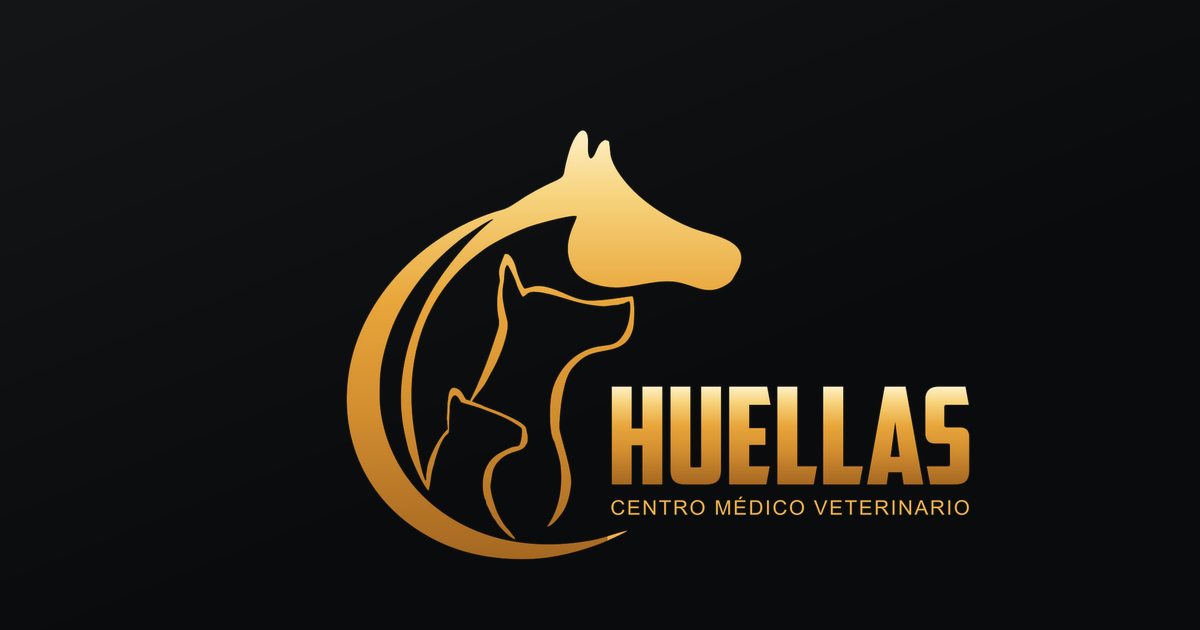
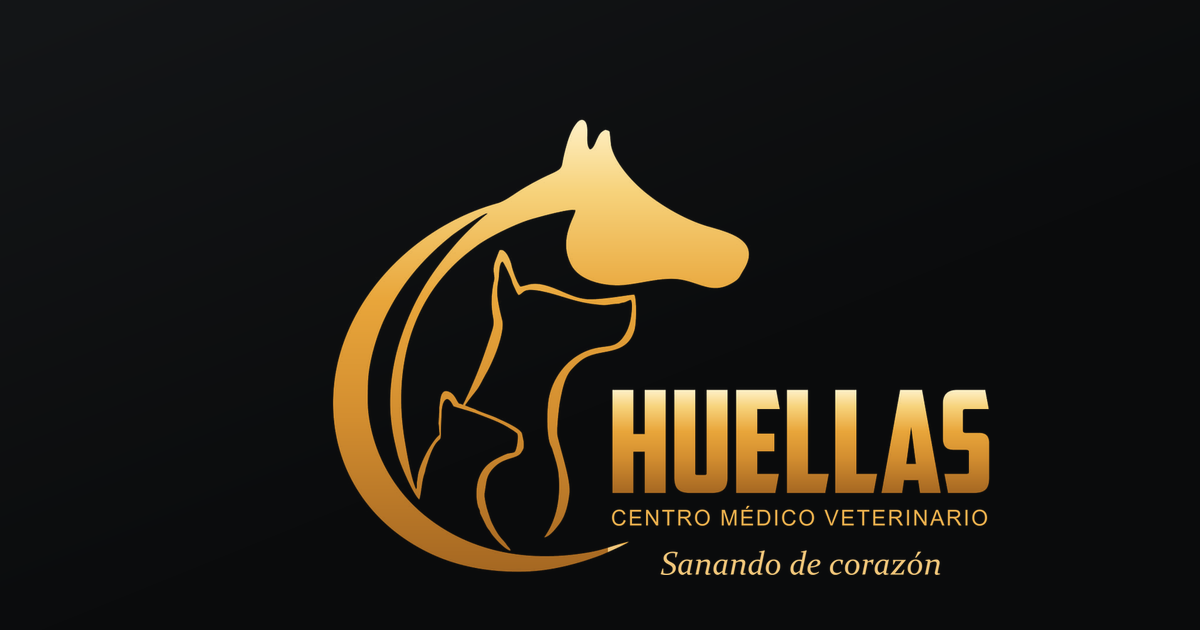
Add files via upload

diff --git a/sitio/huellas.html b/sitio/huellas.html
@@ -4,11 +4,11 @@
 <meta charset="utf-8">
 <meta name="viewport" content="width=device-width, initial-scale=1.0, viewport-fit=cover">
 <title>Mario Andrés Meza Chaves · Huellas — Centro Médico Veterinario</title>
-<meta name="description" content="Médico veterinario COMVEZCOL en San Juan de Pasto. Caninos, felinos y equinos. Cirugía de tejidos blandos, ortopedia, medicina interna, reproducción y odontología. Emergencias 24 horas.">
+<meta name="description" content="Médico veterinario en San Juan de Pasto. Caninos, felinos y equinos. Cirugía de tejidos blandos, ortopedia, medicina interna y medicinas integrativas. Emergencias 24 horas.">
 <link rel="canonical" href="https://insignes.co/huellas">
 <meta property="og:type" content="profile">
 <meta property="og:title" content="Mario Andrés Meza Chaves · Huellas — Centro Médico Veterinario">
-<meta property="og:description" content="Médico veterinario COMVEZCOL en San Juan de Pasto. Caninos, felinos y equinos. Cirugía, ortopedia, medicina interna y medicinas complementarias. Emergencias 24 horas.">
+<meta property="og:description" content="Médico veterinario en San Juan de Pasto. Caninos, felinos y equinos. Cirugía, ortopedia, medicina interna y medicinas integrativas. Emergencias 24 horas.">
 <meta property="og:locale" content="es_CO">
 <meta property="og:url" content="https://insignes.co/huellas">
 <meta property="og:image" content="https://insignes.co/social-huellas.png">
@@ -19,7 +19,7 @@
 <link rel="icon" href="favicon.svg" type="image/svg+xml">
 <link rel="preload" href="fonts/sans.woff2" as="font" type="font/woff2" crossorigin>
 <link rel="preload" href="fonts/sans-medium.woff2" as="font" type="font/woff2" crossorigin>
-<script type="application/ld+json">{"@context":"https://schema.org","@type":"LocalBusiness","name":"Huellas — Centro Médico Veterinario","description":"Atención de caninos, felinos y equinos. Cirugía de tejidos blandos, ortopedia y medicina interna. Medicina de emergencia, reproducción y odontología. Medicinas complementarias: zoocinesiatría, terapia neural, homeopatía veterinaria, biopuntura, medicina ortomolecular y ozonoterapia.","telephone":"+573154502046","email":"marioandresmeza@hotmail.com","url":"https://insignes.co/huellas","image":"https://insignes.co/social-huellas.png","sameAs":["https://www.facebook.com/profile.php?id=61593629071987","https://www.instagram.com/huellasvetarinaria/","https://www.tiktok.com/@veterinaria.huellas"],"openingHours":"Mo-Su 00:00-23:59","address":{"@type":"PostalAddress","streetAddress":"Manzana 10 Casa 6, Villaflor 2","addressLocality":"San Juan de Pasto","addressCountry":"CO"},"geo":{"@type":"GeoCoordinates","latitude":"1.2016708","longitude":"-77.2561702"}}</script>
+<script type="application/ld+json">{"@context":"https://schema.org","@type":"LocalBusiness","name":"Huellas — Centro Médico Veterinario","description":"Atención de caninos y felinos: cirugía de tejidos blandos, ortopedia, medicina interna y medicinas integrativas (terapia neural, biopuntura, zoosiniatría, homotoxicología, ozonoterapia, medicina ortomolecular). Atención de equinos: emergencias por abdomen agudo, neonatos, cirugía, reproducción y odontología equina.","telephone":"+573154502046","email":"marioandresmeza@hotmail.com","url":"https://insignes.co/huellas","image":"https://insignes.co/social-huellas.png","sameAs":["https://www.facebook.com/profile.php?id=61593629071987","https://www.instagram.com/huellasvetarinaria/","https://www.tiktok.com/@veterinaria.huellas"],"openingHours":"Mo-Su 00:00-23:59","address":{"@type":"PostalAddress","streetAddress":"Manzana 10 Casa 6, Villaflor 2","addressLocality":"San Juan de Pasto","addressCountry":"CO"},"geo":{"@type":"GeoCoordinates","latitude":"1.2016708","longitude":"-77.2561702"}}</script>
 <style>
 @font-face{font-family:'Propia';src:url('fonts/sans.woff2') format('woff2');font-weight:400;font-display:swap}
 @font-face{font-family:'Propia';src:url('fonts/sans-medium.woff2') format('woff2');font-weight:500;font-display:swap}
@@ -43,10 +43,11 @@ ul{list-style:none}
 /* rótulo de cada sección */
 .rotulo{font-size:9px;font-weight:500;letter-spacing:.24em;text-transform:uppercase;color:#8D939A;margin-bottom:18px}
 
-/* perfil profesional, dentro de la tarjeta */
-.perfil{display:grid;gap:8px}
-.perfil li{position:relative;padding-left:15px;font-size:12px;line-height:1.5;color:#A5ABB2;text-wrap:pretty}
-.perfil li::before{content:"";position:absolute;left:0;top:.52em;width:4px;height:4px;background:#E9A63B;opacity:.8}
+/* ámbitos de atención, dentro de la tarjeta */
+.ambitos{display:grid;gap:20px;border-top:1px solid rgba(242,243,244,.09);padding-top:22px}
+.ambitos h3{font-size:9px;font-weight:500;letter-spacing:.19em;text-transform:uppercase;color:#E9A63B;margin-bottom:9px}
+.ambitos p{font-size:12px;line-height:1.62;color:#A5ABB2;text-wrap:pretty}
+.ambitos em{font-style:normal;color:#C3C9CF}
 
 /* especializaciones */
 .esp li{border-top:1px solid rgba(242,243,244,.1);padding:15px 0 17px}
@@ -57,7 +58,7 @@ ul{list-style:none}
 /* galería */
 #tira{display:grid;grid-auto-flow:column;grid-auto-columns:62%;gap:10px;overflow-x:auto;overscroll-behavior-x:contain;scroll-snap-type:x mandatory;margin:0 -22px;padding:0 22px 2px;scrollbar-width:none;-webkit-overflow-scrolling:touch}
 #tira::-webkit-scrollbar{display:none}
-.pieza{position:relative;display:block;width:100%;aspect-ratio:4/5;scroll-snap-align:start;appearance:none;padding:0;border:1px solid rgba(242,243,244,.16);background:#0E1012;overflow:hidden;cursor:pointer}
+.pieza{position:relative;display:block;width:100%;aspect-ratio:1/1;scroll-snap-align:start;appearance:none;padding:0;border:1px solid rgba(242,243,244,.16);background:#0E1012;overflow:hidden;cursor:pointer}
 .pieza img,.pieza video{width:100%;height:100%;object-fit:cover;display:block;transition:transform .55s cubic-bezier(.16,1,.3,1)}
 .pieza:hover img,.pieza:hover video{transform:scale(1.05)}
 .pieza .rot{position:absolute;left:0;right:0;bottom:0;padding:26px 12px 11px;background:linear-gradient(to top,rgba(8,9,10,.9),rgba(8,9,10,.45) 55%,transparent);font-size:10px;font-weight:500;letter-spacing:.05em;color:#F2F3F4;text-align:left;text-wrap:pretty}
@@ -83,8 +84,8 @@ ul{list-style:none}
 <div data-sobre="1" style="position:relative;border:1px solid rgba(242,243,244,.2);background:linear-gradient(158deg,#141618 0%,#0B0C0D 58%,#0A0B0C 100%);display:flex;flex-direction:column;overflow:hidden;will-change:transform;transition:transform .18s cubic-bezier(.16,1,.3,1);animation:entrarTarjeta .9s cubic-bezier(.16,1,.3,1) both">
 <div data-brillo="1" aria-hidden="true" style="position:absolute;top:-30%;left:-20%;width:150%;height:120%;background:linear-gradient(112deg,transparent 38%,rgba(242,243,244,.09) 50%,transparent 62%);pointer-events:none;will-change:transform;transition:transform .18s cubic-bezier(.16,1,.3,1)"></div>
 <div style="position:relative;display:flex;flex-direction:column;gap:34px;padding:30px 24px 30px">
-<img src="logo-huellas-dorado.png" alt="Huellas — Centro Médico Veterinario" width="1120" height="743" style="width:196px;height:auto;display:block">
-<div><p style="font-size:clamp(25px,7vw,29px);font-weight:500;letter-spacing:-.036em;line-height:1.05;margin-bottom:12px">Mario Andrés<br>Meza Chaves</p><p style="font-size:9px;font-weight:500;letter-spacing:.2em;text-transform:uppercase;color:#E9A63B;margin-bottom:16px">Médico veterinario COMVEZCOL</p><ul class="perfil"><li>Atención de caninos y felinos</li><li>Especialista en cirugía de tejidos blandos, ortopedia y medicina interna</li><li>Atención de equinos</li><li>Medicina de emergencia y cirugía. Especialista en reproducción y odontología</li></ul></div>
+<img src="logo-huellas-dorado.png" alt="Huellas — Centro Médico Veterinario · Sanando de corazón" width="1120" height="746" style="width:210px;height:auto;display:block">
+<div><p style="font-size:clamp(25px,7vw,29px);font-weight:500;letter-spacing:-.036em;line-height:1.05;margin-bottom:12px">Mario Andrés<br>Meza Chaves</p><p style="font-size:9px;font-weight:500;letter-spacing:.2em;text-transform:uppercase;color:#E9A63B;margin-bottom:24px">Médico veterinario</p><div class="ambitos"><div><h3>Atención de caninos y felinos</h3><p>Especialista en cirugía de tejidos blandos y ortopedia. Especialista en medicina interna y <em>medicinas integrativas</em>: terapia neural, biopuntura, zoosiniatría, homotoxicología, ozonoterapia y medicina ortomolecular.</p></div><div><h3>Atención de equinos</h3><p>Emergencias por abdomen agudo (cólico). Atención de neonatos. Especialista en cirugía, reproducción y odontología equina.</p></div></div></div>
 </div>
 <div style="position:relative;display:grid;gap:0"><a href="huellas.vcf" style="border-top:1px solid rgba(242,243,244,.1);display:flex;align-items:center;justify-content:space-between;gap:14px;padding:0 24px;min-height:56px"><span style="font-size:10px;font-weight:500;letter-spacing:.22em;text-transform:uppercase">guardar contacto</span><svg width="17" height="17" viewBox="0 0 24 24" fill="none" stroke="#9198A0" stroke-width="1.7" stroke-linecap="round" stroke-linejoin="round" aria-hidden="true"><path d="M12 4v11"/><path d="M7.5 10.5 12 15l4.5-4.5"/><path d="M5 19h14"/></svg></a>
 <a href="https://www.google.com/maps/place/1%C2%B012'06.0%22N+77%C2%B015'22.2%22W/@1.2016708,-77.2561702,3a,75y,238.21h,80.98t/data=!3m7!1e1!3m5!1sumvrfQLa5R8VC6Y9DmW0OA!2e0!6shttps:%2F%2Fstreetviewpixels-pa.googleapis.com%2Fv1%2Fthumbnail%3Fcb_client%3Dmaps_sv.tactile%26w%3D900%26h%3D600%26pitch%3D9.022431766393211%26panoid%3DumvrfQLa5R8VC6Y9DmW0OA%26yaw%3D238.20605771136863!7i16384!8i8192!4m4!3m3!8m2!3d1.2016708!4d-77.2561702?entry=ttu&amp;g_ep=EgoyMDI2MDgxOS4wIKXMDSoASAFQAw%3D%3D" target="_blank" rel="noopener" style="border-top:1px solid rgba(242,243,244,.1);display:flex;align-items:flex-start;justify-content:space-between;gap:16px;padding:17px 24px 18px"><span style="font-size:10px;font-weight:500;letter-spacing:.22em;text-transform:uppercase;padding-top:2px">ubicación</span><span style="font-size:12px;line-height:1.5;color:#9198A0;text-align:right">Manzana 10 Casa 6, Villaflor 2<br>San Juan de Pasto ↗</span></a>
@@ -96,13 +97,13 @@ ul{list-style:none}
 
 <section style="animation:entrar .8s cubic-bezier(.16,1,.3,1) .16s both"><p class="rotulo">servicios</p><ul style="display:grid;grid-template-columns:1fr 1fr;gap:14px 20px"><li style="font-size:12px;line-height:1.45;color:#D4D8DC">Medicina general y especializada</li><li style="font-size:12px;line-height:1.45;color:#D4D8DC">Ecografía</li><li style="font-size:12px;line-height:1.45;color:#D4D8DC">Rayos X</li><li style="font-size:12px;line-height:1.45;color:#D4D8DC">Laboratorio clínico</li><li style="font-size:12px;line-height:1.45;color:#D4D8DC">Cirugía y ortopedia</li><li style="font-size:12px;line-height:1.45;color:#D4D8DC">Profilaxis dental</li><li style="font-size:12px;line-height:1.45;color:#D4D8DC">Hospitalización</li><li style="font-size:12px;line-height:1.45;color:#D4D8DC">Guardería canina</li><li style="font-size:12px;line-height:1.45;color:#D4D8DC">Adiestramiento canino</li><li style="font-size:12px;line-height:1.45;color:#D4D8DC">Pet Shop</li><li style="font-size:12px;line-height:1.45;color:#D4D8DC">Clases de equitación</li><li style="font-size:12px;line-height:1.45;color:#D4D8DC">Equinoterapia</li></ul></section>
 
-<section style="animation:entrar .8s cubic-bezier(.16,1,.3,1) .22s both"><p class="rotulo">especializaciones</p><ul class="esp"><li><h3>Medicinas complementarias</h3><p>Zoocinesiatría, terapia neural, homeopatía veterinaria, biopuntura, medicina ortomolecular y ozonoterapia.</p></li><li><h3>Geriatría y columna</h3><p>Tratamientos especiales para mascotas geriátricas y patologías de columna.</p></li><li><h3>Moquillo canino</h3><p>Protocolo especial para el tratamiento del moquillo canino en fase neurológica.</p></li></ul></section>
+<section style="animation:entrar .8s cubic-bezier(.16,1,.3,1) .22s both"><p class="rotulo">especializaciones</p><ul class="esp"><li><h3>Geriatría y columna</h3><p>Tratamientos especiales para mascotas geriátricas y patologías de columna.</p></li><li><h3>Moquillo canino</h3><p>Protocolo especial para el tratamiento del moquillo canino en fase neurológica.</p></li></ul></section>
 
 <section style="display:grid;gap:0;border-top:1px solid rgba(242,243,244,.1);animation:entrar .8s cubic-bezier(.16,1,.3,1) .28s both"><a href="tel:+573103705937" style="border-bottom:1px solid rgba(242,243,244,.1);display:flex;align-items:center;justify-content:space-between;gap:14px;min-height:50px"><span style="font-size:9px;font-weight:500;letter-spacing:.2em;text-transform:uppercase;color:#8D939A">celular</span><span style="font-size:12px;color:#D4D8DC">310 370 5937</span></a><a href="tel:+573154502046" style="border-bottom:1px solid rgba(242,243,244,.1);display:flex;align-items:center;justify-content:space-between;gap:14px;min-height:50px"><span style="font-size:9px;font-weight:500;letter-spacing:.2em;text-transform:uppercase;color:#8D939A">consultorio</span><span style="font-size:12px;color:#D4D8DC">315 450 2046</span></a><a href="mailto:marioandresmeza@hotmail.com" style="border-bottom:1px solid rgba(242,243,244,.1);display:flex;align-items:center;justify-content:space-between;gap:14px;min-height:50px"><span style="font-size:9px;font-weight:500;letter-spacing:.2em;text-transform:uppercase;color:#8D939A">correo</span><span style="font-size:12px;color:#D4D8DC">marioandresmeza@hotmail.com</span></a></section>
 
 <section id="galeria" style="animation:entrar .8s cubic-bezier(.16,1,.3,1) .34s both"><p class="rotulo">galería</p><div id="tira"></div><p class="pista">toca para ampliar</p></section>
 
-<div style="display:flex;align-items:center;justify-content:space-between;gap:14px;animation:entrar .8s cubic-bezier(.16,1,.3,1) .40s both"><span style="font-size:8.5px;font-weight:500;letter-spacing:.24em;text-transform:uppercase;color:#8D939A">hecha por in·signes by Alenna Art </span><button type="button" id="compartir" style="appearance:none;background:none;border:none;color:#8D939A;font-family:inherit;font-size:8.5px;font-weight:500;letter-spacing:.24em;text-transform:uppercase;padding:12px 0 12px 12px;min-height:44px;cursor:pointer">compartir</button></div>
+<div style="display:flex;align-items:center;justify-content:space-between;gap:14px;animation:entrar .8s cubic-bezier(.16,1,.3,1) .40s both"><span style="font-size:8.5px;font-weight:500;letter-spacing:.24em;text-transform:uppercase;color:#8D939A">hecha por in·signes</span><button type="button" id="compartir" style="appearance:none;background:none;border:none;color:#8D939A;font-family:inherit;font-size:8.5px;font-weight:500;letter-spacing:.24em;text-transform:uppercase;padding:12px 0 12px 12px;min-height:44px;cursor:pointer">compartir</button></div>
 </main>
 
 <div id="visor" hidden role="dialog" aria-modal="true" aria-label="Galería">
@@ -134,10 +135,9 @@ ul{list-style:none}
    de menos de 20 MB para que carguen rapido en celular.
    ============================================================== */
 var MEDIA = [
-  {tipo:"video",  src:"media/equino-hospitalizacion.mp4", poster:"media/equino-hospitalizacion.jpg", texto:"Hospitalización y fluidoterapia", foco:"6% 50%"},
-  {tipo:"imagen", src:"media/dr-meza-equinos.jpg", texto:"Atención de equinos", foco:"68% 50%"},
-  {tipo:"imagen", src:"media/caninos-golden.jpg", texto:"Atención de caninos"},
-  {tipo:"imagen", src:"media/equinos-caballo.jpg", texto:"Valoración en campo", foco:"42% 50%"},
+  {tipo:"imagen", src:"media/odontologia-equina.jpg", texto:"Odontología equina"},
+  {tipo:"imagen", src:"media/atencion-en-campo.jpg",  texto:"Atención en campo"},
+  {tipo:"imagen", src:"media/instalaciones.jpg",      texto:"Nuestras instalaciones"},
 ];
 
 (function(){
